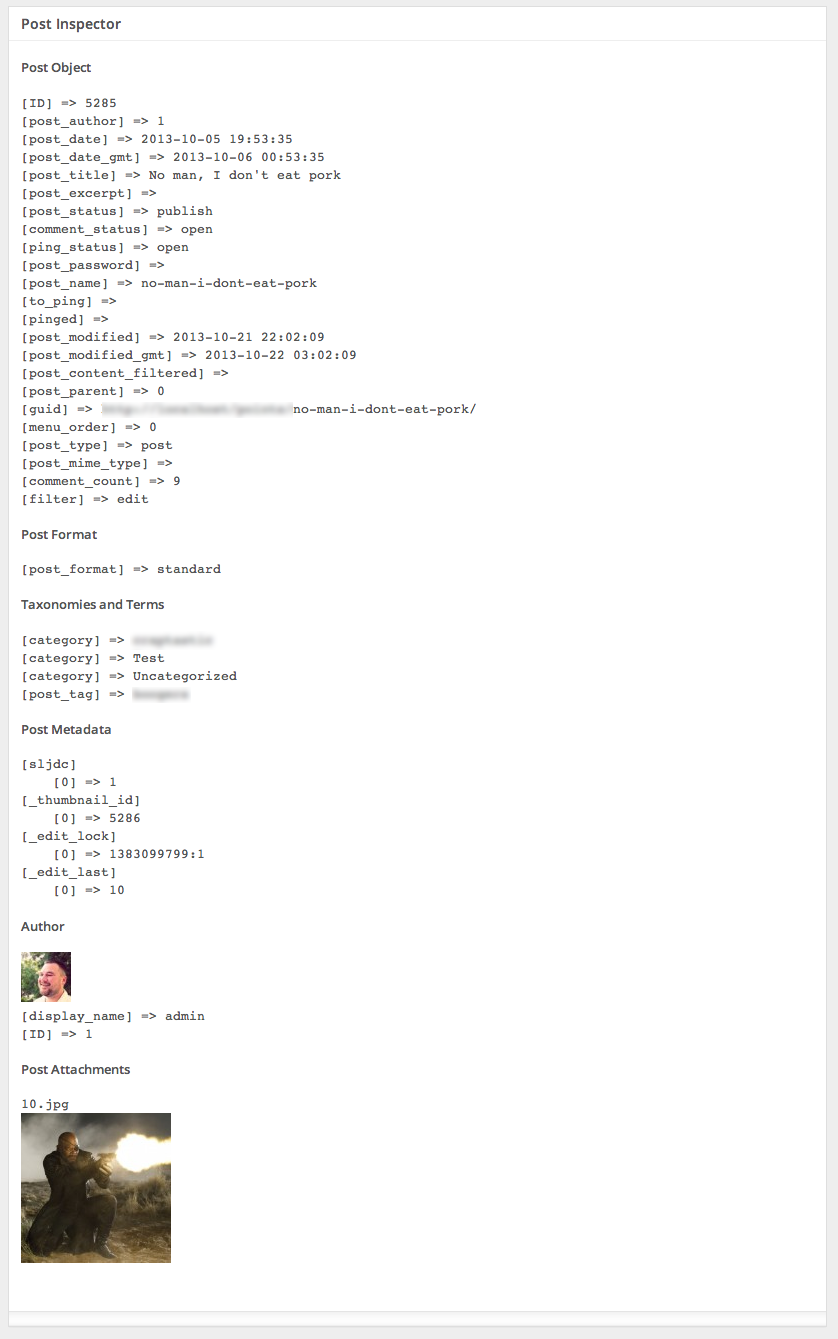
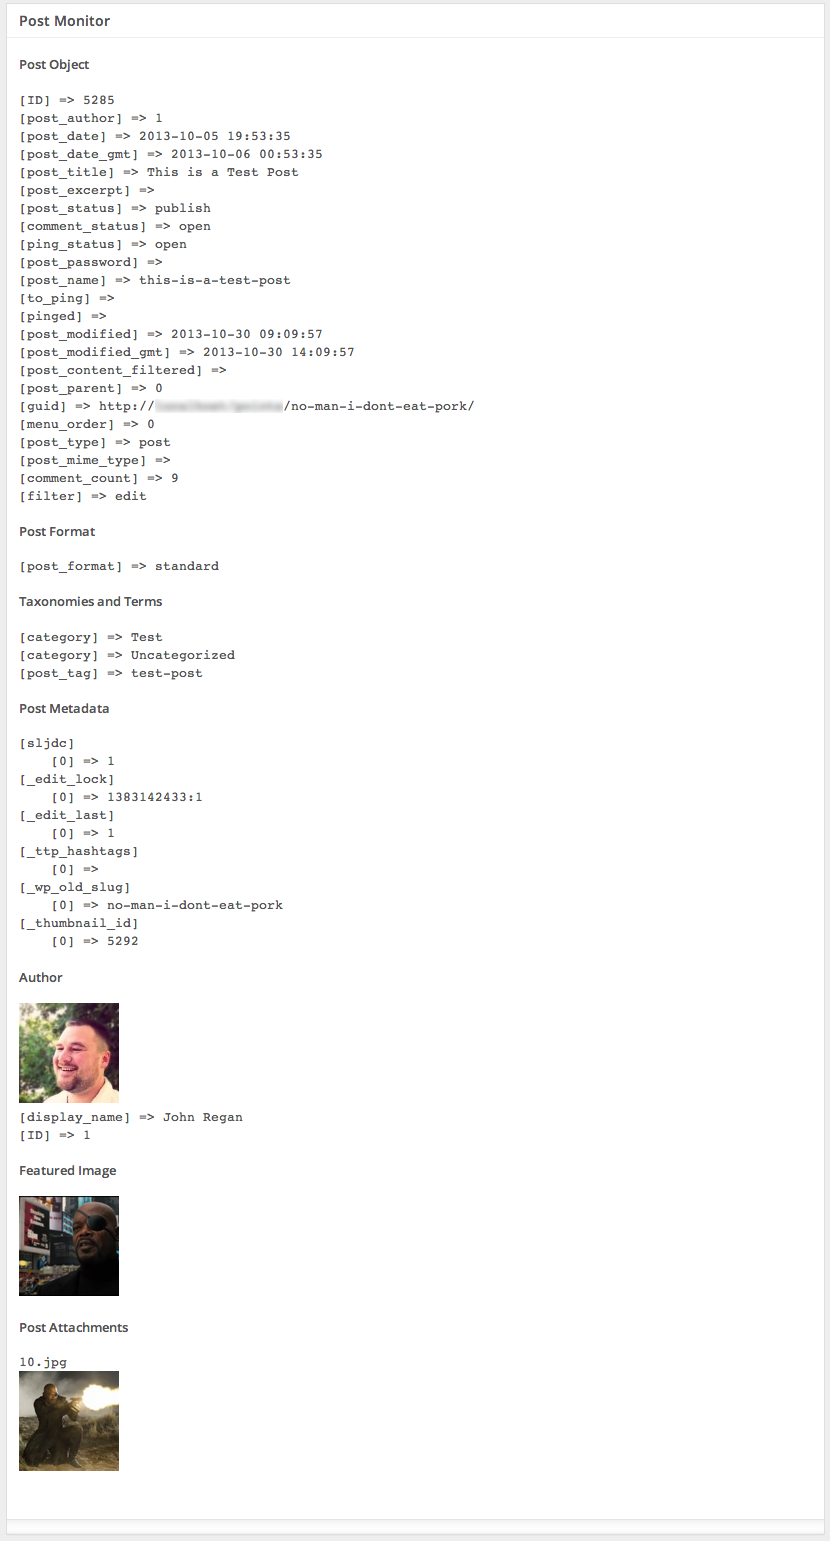
Adding Featured Image and New Screenshot

diff --git a/post-monitor.php b/post-monitor.php
@@ -191,6 +191,8 @@ class Post_Monitor {
 		// Post Author
 		$post_info[] = self::get_author( $post );
 
+		$post_info[] = self::get_featured_image( $post_id );
+
 		// Post Attachments
 		$post_info[] = self::get_attachments( $post_id );
 
@@ -281,7 +283,7 @@ class Post_Monitor {
 			if ( is_array( $metadata ) ) {
 				echo self::print_formatted_array( $metadata );
 			} else {
-				echo esc_html__( 'No Post Metadata found', 'post-monitor' );
+				echo '<pre>' . esc_html__( 'No Post Metadata found', 'post-monitor' ) . '</pre>';
 			}
 		return ob_get_clean();
 	}
@@ -290,7 +292,7 @@ class Post_Monitor {
 	/**
 	 * Render Post Author Section
 	 *
-	 * @param  int     $post_id  Post ID of current post
+	 * @param  int     $post  Post object current post
 	 * @return string  Post Author
 	 */
 	static function get_author( $post ) {
@@ -299,12 +301,34 @@ class Post_Monitor {
 			$author_id = $post->post_author;
 			$author    = get_userdata( $author_id );
 			echo "<pre>";
-			echo get_avatar( $author_id, '50' ) . "<br />";
+			echo get_avatar( $author_id, 100 ) . "<br />";
 			echo "[" . __( 'display_name', 'post-monitor' ) . "] => " . $author->data->display_name . "<br />";
 			echo "[" . __( 'ID', 'post-monitor' ) . "] => " . $author->data->ID . "<br />";
 			echo "</pre>";
 		return ob_get_clean();
 	}
+
+
+	/**
+	 * Render Featured Image (Post Thumbnail) Section
+	 *
+	 * @param  int     $post_id  Post ID of current post
+	 * @return string  Post Author
+	 */
+	static function get_featured_image( $post_id ) {
+		ob_start();
+			echo '<h4>' . esc_html__( 'Featured Image', 'post-monitor' ) . '</h4>';
+			if ( has_post_thumbnail( $post_id ) ) {
+				$link = wp_get_attachment_image_src( get_post_thumbnail_id(), 'large');
+				echo '<a href="' . $link[0] . '" >';
+					the_post_thumbnail( array( 100, 100 ) );
+				echo '</a>';
+			} else {
+				echo '<pre>' . esc_html__( 'No Featured Image found.', 'post-monitor' ) . '</pre>';
+			}
+		return ob_get_clean();
+	}
+
 
 
 	/**
@@ -327,7 +351,11 @@ class Post_Monitor {
 			if ( ! empty( $attachments ) ) {
 				foreach ( $attachments as $attachment ) {
 					echo esc_html( $attachment->post_title ) . "<br />";
-					the_attachment_link( $attachment->ID );
+
+					$link = wp_get_attachment_image_src( $attachment->ID, 'large');
+					echo '<a href="' . $link[0] . '" >';
+						echo wp_get_attachment_link( $attachment->ID, array( 100, 100 ) );
+					echo '</a>';
 					echo "<br /><br />";
 				}
 			} else {
